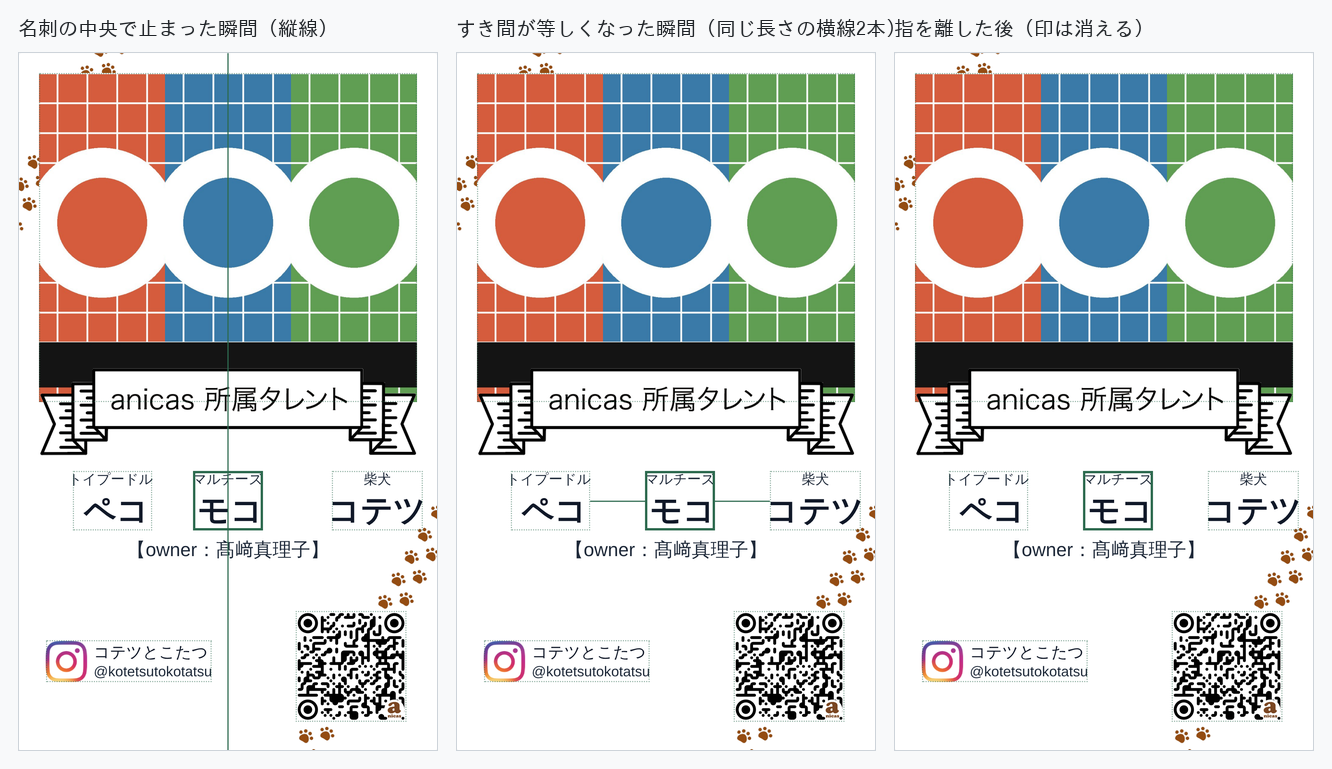
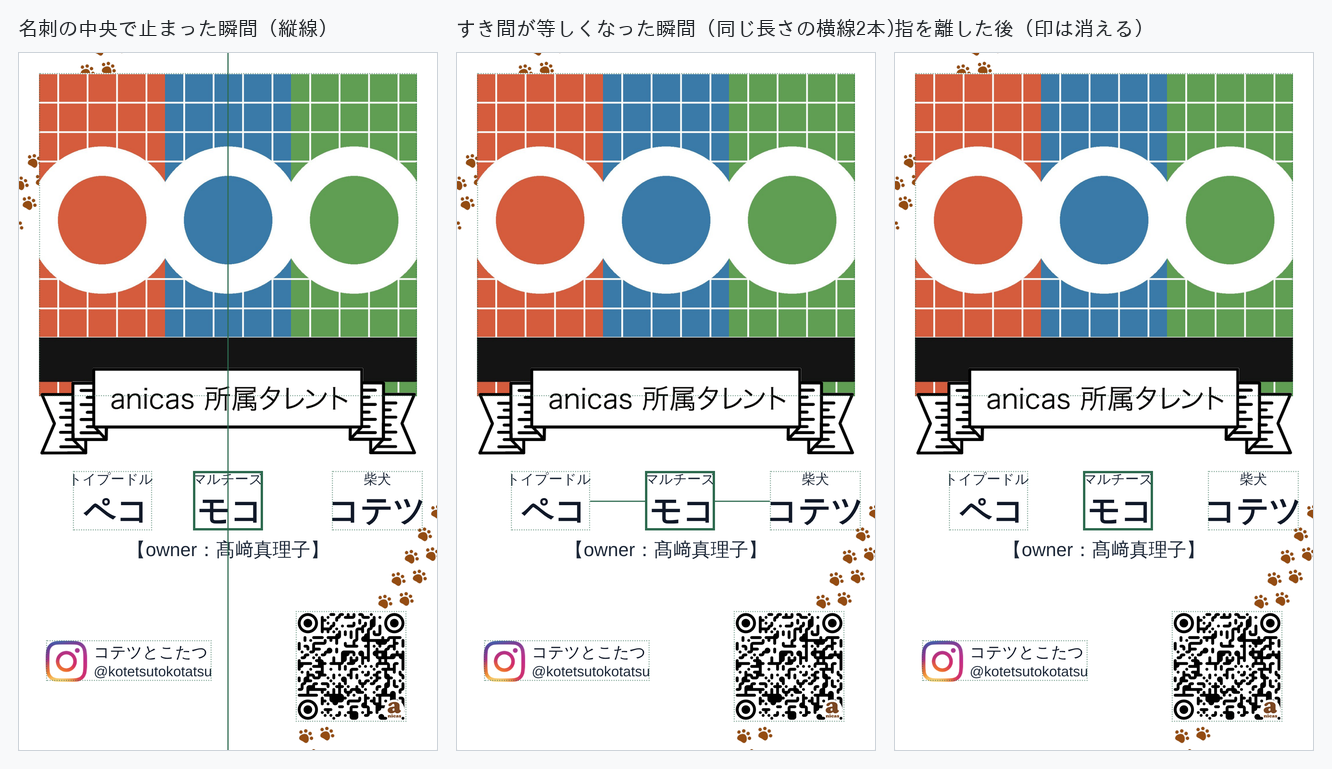
fix: 写真の窓の下端を実物の名刺に合わせ、下端の角の出っぱりを消す
写真の下端がひらひらの始まるところより下で終わっていたため、四角い角が残って
いた。実物 public/sample-meishi.png は同じデザインを約1.023倍にしたもので数画素
切れているので、両方に入っている唯一のかたい図形＝リボンの輪郭で重ね合わせた
（テンプレ x 56…991 / y 785…1001 ↔ 実物 x 54…1010 / y 800…1021。合わせに使って
いない Instagram の印で確かめて、ずれ 1.3 / 0.7 px）。

その重ね方で読むと実物の写真の下端はカード箱の .49244。LAYOUT.photo.height を
.471 → .4634（下端 .500 → .4924）にした。入稿PDFの配置命令から実測した下端は
45.500mm → 44.805mm で、実物の 44.809mm との差 0.004mm。上端と左右は動かさない。

ひらひらが始まる行より下に残る写真は、入稿PDFを1200dpiで描いて数えると
高さ 1.016mm → 0.318mm、面積でおよそ 1/8 になった。

リボン・文字・QR は動いていない：写真の1命令を除いたページの配置命令は3パターン
とも完全一致、写真の箱の外の画素は（箱のふち1画素を除いて）0画素。

Claude-Session: https://claude.ai/code/session_019hQj9vxMcARJ96pZFj3xyV

diff --git a/lib/meishi-layout.ts b/lib/meishi-layout.ts
@@ -112,7 +112,7 @@ export const PAPER_COLOR = "#FFFFFF";
  *
  * Calibrated against the real reference card (public/sample-meishi.png,
  * 1070 × 1778). Measured landmarks (as a fraction of the card):
- *   photo slot              top .029, left .05, w .90, bottom .50 (overlaps ribbon)
+ *   photo slot              top .029, left .05, w .90, bottom .4924 (overlaps ribbon)
  *   ribbon white band       top .45, box bottom .536 (tails reach ~.575)
  *   breed / name / owner    y ≈ .61 / .66 / .71
  *   Instagram icon          x ≈ .06–.16, y ≈ .84–.90 (drawn in the template)
@@ -122,18 +122,27 @@ export const PAPER_COLOR = "#FFFFFF";
  *   anicas mark (bottom-R)  x ≈ .88–.91, y ≈ .93–.95
  *
  * Z-ORDER (critical): the photo extends DOWN past the ribbon band top so its
- * bottom sits at ~.50 (≈ middle of the white band), then the ribbon overlay
+ * bottom sits inside the white band, then the ribbon overlay
  * (/meishi-ribbon.png — the ribbon lifted off the template onto a transparent
  * background) is drawn ON TOP of the photo. This reproduces the real card,
  * where the ribbon's white band hides the photo's lower edge and the photo
  * peeks out around the band.
+ *
+ * The slot's BOTTOM is measured off the real card rather than rounded: the
+ * photo's lower edge has to land where the ribbon's tails begin, or it stops
+ * in the open just below them and leaves a square corner showing. Aligning
+ * public/sample-meishi.png to the template by the ribbon (its own outline is
+ * in both: x 56…990 ↔ 54…1009, y 785…1000 ↔ 800…1020, confirmed on the
+ * Instagram glyph to within a pixel) puts the real card's photo edge at
+ * sample row 872.5 — card height .49244, i.e. .4924 − .029 = .4634 of slot.
+ * The old .471 put it .68 mm lower, which is what showed.
  *
  * `top`/`height` are fractions of the card HEIGHT; `left`/`right`/`width` are
  * fractions of the card WIDTH — exactly how CSS resolves them for an
  * absolutely positioned child, so the preview and the print file agree.
  */
 export const LAYOUT = {
-  photo: { top: 0.029, left: 0.05, width: 0.9, height: 0.471 },
+  photo: { top: 0.029, left: 0.05, width: 0.9, height: 0.4634 },
   textBlock: { top: 0.6, left: 0.1, width: 0.8 },
   igBlock: { top: 0.845, left: 0.18, width: 0.46 },
   qr: { top: 0.8, right: 0.075, width: 0.265 },

diff --git a/README.md b/README.md
@@ -152,6 +152,14 @@ npm run dev
 列の下限は「最後に下限へ届く行」＝ふつうは名前が決める（`columnFloor`）。
 すでに詰め込みで下限を割っている行は、下限まで**押し上げない**——縮められないだけ。
 
+### 写真の窓は実物に合わせて測ってある
+
+窓の下端は丸めた値ではなく、実物の名刺 `public/sample-meishi.png` から測った位置。
+写真の下端はリボンのひらひらが始まるところに乗っていなければならず、少しでも下だと
+ひらひらの外に square な角が残る。実物をテンプレートに重ねて（リボンの輪郭が両方に
+あるので、それで合わせる）読むと、実物の写真の下端はカード箱の **.49244**。
+`LAYOUT.photo` は `top .029 + height .4634 = .4924` でそこに合わせてある。
+
 ### 写真はデザインの窓の中にだけ描く
 
 `/meishi-ribbon.png` は**すでに一枚の不透明なシルエット**で、白い帯もひらひらの
